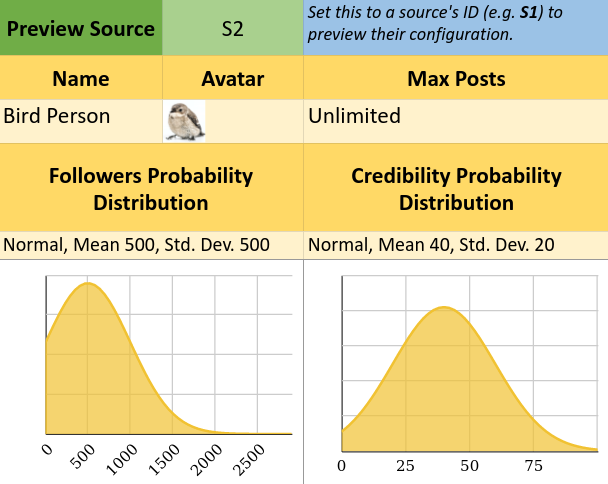
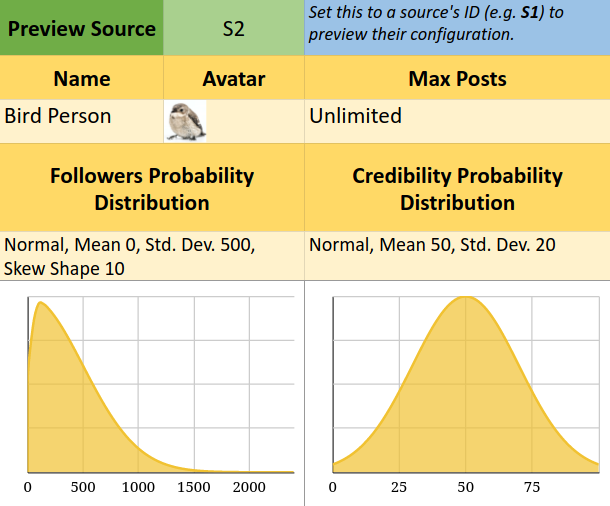
Improvements from v2

Changed region(s): [[0.0, 0.0, 1.0, 0.9917]]

diff --git a/_includes/header.html b/_includes/header.html
@@ -1,24 +1,25 @@
 <header class="site-header">
-  <div class="header-content">
-    <div class="site-header-width-limit">
-      <h3 class="site-title">
-        <a href="/">
-          <img id="logo" src="/assets/img/logo.png" alt="Misinformation Game Logo" />
-          <span>
-        {{ site.title }}
-      </span>
-        </a>
-      </h3>
-      <nav class="menu-list">
-        {% for item in site.data.settings.social %}
-        <a href="{{ item.link }}" class="menu-link" target="_blank">
-          <i class="fa fa-{{ item.icon }}" aria-hidden="true"></i>
-        </a>
-        {% endfor %}
-      </nav>
+    <div class="header-content">
+        <div class="site-header-width-limit">
+            <h3 class="site-title">
+                <a href="/">
+                    <img id="logo" src="/assets/img/logo.png" alt="Misinformation Game Logo" />
+                    <span>
+                        {{ site.title }}
+                    </span>
+                </a>
+            </h3>
+            <nav class="menu-list">
+                {% for item in site.data.settings.social %}
+                    <a href="{{ item.link }}" class="menu-link" target="_blank">
+                        <i class="fa fa-{{ item.icon }}" aria-hidden="true"></i>
+                    </a>
+                {% endfor %}
+            </nav>
+        </div>
     </div>
-  </div>
-  <div class="header-colour-edge">
-    <!-- Nothing to see here -->
-  </div>
+
+    <div class="header-colour-edge">
+        <!-- Nothing to see here -->
+    </div>
 </header>

diff --git a/_includes/footer.html b/_includes/footer.html
@@ -1,17 +1,17 @@
 <footer class="footer">
-  <div class="footer-content">
-    <div class="footer-description">
-      The Misinformation Game is a social media simulator that was created
-      to research the processing of misinformation.
+    <div class="footer-content">
+        <div class="footer-description">
+            The Misinformation Game is a social media simulator that was created
+            to research the processing of misinformation.
+        </div>
+        <div class="footer-links">
+            <a href="/About">About</a>
+            •
+            <a href="https://github.com/TheMisinformationGame/MisinformationGame">GitHub</a>
+            •
+            <a href="https://github.com/TheMisinformationGame/MisinformationGame/issues">Issue Tracker</a>
+            •
+            <a href="mailto:emclabuwa@gmail.com">Contact</a>
+        </div>
     </div>
-    <div class="footer-links">
-        <a href="/About">About</a>
-        •
-      <a href="https://github.com/TheMisinformationGame/MisinformationGame">GitHub</a>
-      •
-      <a href="https://github.com/TheMisinformationGame/MisinformationGame/issues">Issue Tracker</a>
-      •
-      <a href="mailto:emclabuwa@gmail.com">Contact</a>
-    </div>
-  </div>
 </footer>

diff --git a/_sass/_base.scss b/_sass/_base.scss
@@ -240,3 +240,29 @@ th, td {
   padding: 15px;
   text-align: left;
 }
+
+
+/**
+ * Info boxes.
+ */
+p.info,
+p.error {
+  display: inline-block;
+  border-radius: 0.4rem;
+  border: 1px solid;
+  padding: 0.8rem 1rem;
+  margin: 0.4rem 0 0;
+  max-width: 600px;
+  overflow: hidden;
+  box-shadow: 0 2px 4px rgba(0, 0, 0, 0.1);
+}
+p.info {
+  background-color: #f0f6fc;
+  border-color: #006be2;
+  color: #011933;
+}
+p.error {
+  background-color: #fcf0f1;
+  border-color: #e20000;
+  color: #330101;
+}

diff --git a/_sass/_footer.scss b/_sass/_footer.scss
@@ -1,9 +1,11 @@
 .footer {
   background: #f4f4f4;
   width: 100%;
-  margin-top: 1em;
-  color: black;
+  margin-top: 1.6em;
+  padding-top: 0.6em;
+  color: #222222;
   border-top: 3px solid $brand-color;
+  box-shadow: inset 0 0 8px rgba(0, 0, 0, 0.4);
 }
 .footer-content {
   display: block;

diff --git a/assets/css/main.scss b/assets/css/main.scss
@@ -10,8 +10,8 @@ $code-font-family: "Source Code Pro", monospace;
 $brand-color: #006be2;
 $brand-color-darker: #16418A;
 
-$header-width: 960px;
-$container-width: 960px;
+$header-width: 880px;
+$container-width: 800px;
 $tablet-width: 600px;
 $phone-width: 480px;
 

diff --git a/StudyConfiguration.md b/StudyConfiguration.md
@@ -14,11 +14,15 @@ to be included in your study. This document aims to act as a
 reference for the [configuration spreadsheet](/link/StudyTemplate),
 to help with the configuration of your studies.
 
-**Important: The configuration spreadsheet
-<span style="text-decoration: underline">cannot</span>
-be opened in Microsoft Excel.** It is built specifically for use
-in Google Sheets, and uses functionality that is not available in
-Microsoft Excel.
+<p class="error">
+    <span style="font-weight: bold">Important! The configuration spreadsheet</span>
+    <span style="font-weight: bold; text-decoration: underline">cannot</span>
+    <span style="font-weight: bold">be opened in Microsoft Excel.</span>
+    <br/>
+    It is built specifically for use
+    in Google Sheets, and uses functionality that is not available in
+    Microsoft Excel.
+</p>
 
 
 
@@ -236,6 +240,11 @@ This section contains the settings that change the user
 interface of The Misinformation Game for participants.
 These options change the way that participants are able
 to interact with your study.
+
+##### Display Posts in a Feed
+{:#general-display-feed .no_toc}
+Whether to display the posts to participants in a feed,
+instead of one at a time.
 
 ##### Display Followers
 {:#general-display-followers .no_toc}
@@ -634,17 +643,20 @@ for most sources. If one of the parameters that has a
 default is not included for a specific source, the default
 value will be used instead.
 
-The _Default Source Values_ allows you to define normal
-distributions for the initial number of followers and 
+The _Default Source Values_ allows you to define
+[skew-normal distributions](https://en.wikipedia.org/wiki/Skew_normal_distribution)
+for the initial number of followers and
 credibility scores of sources. This random sampling of
-the initial number of followers and credibility for
-sources is not available on a per-source basis. The normal
+the initial number of followers and credibility for sources
+is not available on a per-source basis. The skew-normal
 distributions for the initial credibility and followers is
-configured by setting the mean and standard deviation of
-the distributions. These values are then used to sample
-the initial credibility and followers of sources from a
-normal distribution with that mean and standard deviation
-when a new game is started.
+configured by setting the mean, standard deviation, and
+skew shape of the distributions. These values are then used
+to sample the initial credibility and followers of sources
+from a skew-normal distribution with that mean, standard
+deviation, and skew shape when a new game is started. Each
+participant is likely to see different values chosen for
+sources that are sampled in this way.
 
 The sampling of initial credibility values is truncated to
 between 0 and 100 credibility. The sampling of initial

diff --git a/Home.md b/Home.md
@@ -140,3 +140,17 @@ guide should be easier to follow.
   The template spreadsheet that should be edited to create your own study.
 - [Example Game Configuration Spreadsheet](/link/ExampleStudy) -
   The study configuration spreadsheet that is used to create the example game.
+
+## Cite the Misinformation Game
+
+```bibtex
+@misc{butler_lamont_wan_prike_nasim_walker_fay_ecker_2022,
+ title={The (Mis)Information Game: A Social Media Simulator},
+ url={psyarxiv.com/628wc},
+ DOI={10.31234/osf.io/628wc},
+ publisher={PsyArXiv},
+ author={Butler, Lucy and Lamont, Padraig and Wan, Dean L Y and Prike, Toby and Nasim, Mehwish and Walker, Bradley and Fay, Nicolas and Ecker, Ullrich K H},
+ year={2022},
+ month={Jul}
+}
+```

diff --git a/About.md b/About.md
@@ -13,7 +13,7 @@ tool that it is today. The idea for the project was originally conceived by
 [Ullrich Ecker](https://twitter.com/UlliEcker), and the project is now led by
 [Lucy Butler](https://twitter.com/lucy_h_butler) from the
 [Ecker Memory & Cognition Lab](https://www.emc-lab.org/). The project continues
-to be developed and maintained by [Padraig Lamont](https://twitter.com/paddy_lamont),
+to be developed and maintained by [Padraig Lamont](https://paddy-lamont.com/),
 although foundational work on the project was also undertaken by Dean Law Yim Wan,
 Danny Marwick, Yunhui Rao, Andrew Pilkington, and Xiyu Gao. The project also
 received significant contributions in its conception, design, and testing by

diff --git a/link/ExampleGame.md b/link/ExampleGame.md
@@ -11,6 +11,13 @@ The example game may be used to help to understand the basic functionality
 and purpose of The Misinformation Game. The study configuration spreadsheet
 that was used to create the example game can be found [here](/link/ExampleStudy).
 
+<p class="info">
+    If the game doesn't load correctly for you, then that may be caused due
+    to hosting limits. The example game is hosted under the free tier of
+    Firebase. You can read more about Firebase's limits and pricing in
+    the <a href="/FirebasePricing">Firebase Pricing Documentation</a>.
+</p>
+
 ## Access
 {:#access}
 
